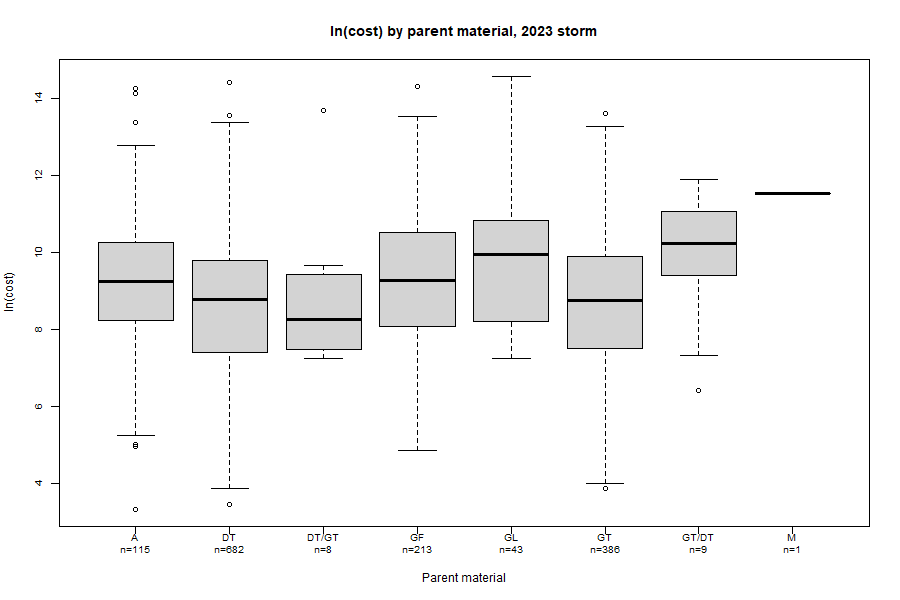
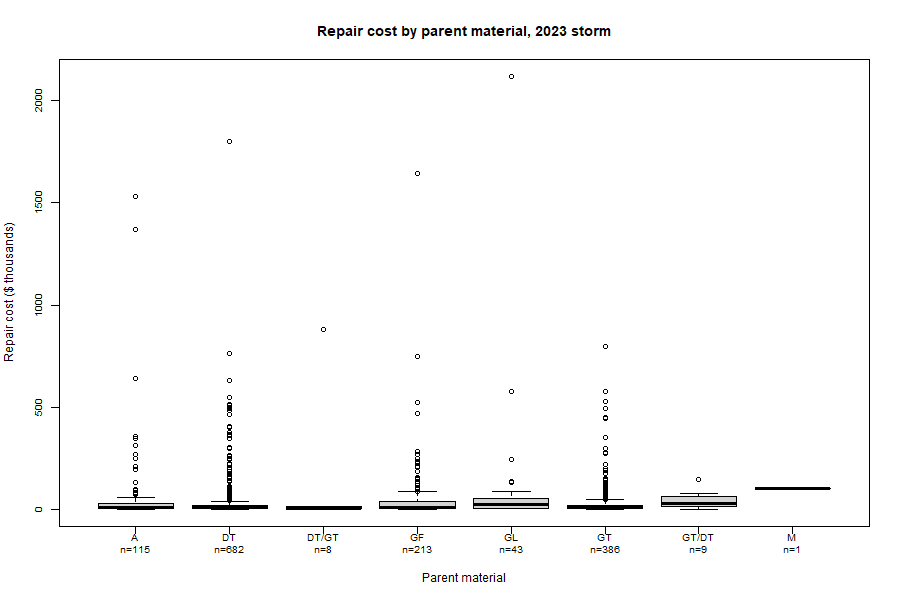
Box plots on repair cost in dollars instead of ln(cost)

diff --git a/CROSSTAB_ANOVA_2026-10-06.md b/CROSSTAB_ANOVA_2026-10-06.md
@@ -49,6 +49,7 @@ CrossTable(roads$vtrans_district, roads$damaged, expected = TRUE, prop.r = TRUE,
 # step 4  the cost side: damaged segments only, cost on the natural-log scale
 dmg <- roads[roads$damaged == 1, ]                              # the damaged segments
 dmg$log_cost <- log(dmg$cost_dedup)                             # ln(cost): the dollar amounts are too skewed for an anova as they are
+dmg$cost_k   <- dmg$cost_dedup / 1000                           # cost in thousands of dollars, for the box plots
 dmg$PARENT          <- factor(dmg$PARENT)                       # re-make the factors so categories with no damaged segments drop out
 dmg$HYDROGROUP      <- factor(dmg$HYDROGROUP)
 dmg$vtrans_district <- factor(dmg$vtrans_district)
@@ -107,8 +108,8 @@ for (i in 1:(length(groups) - 1)) {
 cat("\nmultiple comparisons, bonferroni\n"); print(comparisons, row.names = FALSE)
 
 png(paste0("figures/crosstab_anova_", STORM, "_fig1.png"), width = 900, height = 600)   # figure 1 to a file
-boxplot(log_cost ~ PARENT, data = dmg, xlab = "Parent material", ylab = "ln(cost)",
-        main = paste("ln(cost) by parent material,", STORM, "storm"),
+boxplot(cost_k ~ PARENT, data = dmg, xlab = "Parent material", ylab = "Repair cost ($ thousands)",
+        main = paste("Repair cost by parent material,", STORM, "storm"),
         names = paste0(groups, "\nn=", desc$N), cex.axis = 0.8)   # box = middle half of the values, line = median, whiskers = the rest, circles = outliers
 invisible(dev.off())                                            # close the file without printing "null device"
 
@@ -158,8 +159,8 @@ for (i in 1:(length(groups) - 1)) {
 cat("\nmultiple comparisons, bonferroni\n"); print(comparisons, row.names = FALSE)
 
 png(paste0("figures/crosstab_anova_", STORM, "_fig2.png"), width = 900, height = 600)   # figure 2 to a file
-boxplot(log_cost ~ HYDROGROUP, data = dmg, xlab = "Hydrologic group", ylab = "ln(cost)",
-        main = paste("ln(cost) by hydrologic group,", STORM, "storm"),
+boxplot(cost_k ~ HYDROGROUP, data = dmg, xlab = "Hydrologic group", ylab = "Repair cost ($ thousands)",
+        main = paste("Repair cost by hydrologic group,", STORM, "storm"),
         names = paste0(groups, "\nn=", desc$N), cex.axis = 0.8)
 invisible(dev.off())                                            # close the file without printing "null device"
 
@@ -209,8 +210,8 @@ for (i in 1:(length(groups) - 1)) {
 cat("\nmultiple comparisons, bonferroni\n"); print(comparisons, row.names = FALSE)
 
 png(paste0("figures/crosstab_anova_", STORM, "_fig3.png"), width = 900, height = 600)   # figure 3 to a file
-boxplot(log_cost ~ vtrans_district, data = dmg, xlab = "VTrans district", ylab = "ln(cost)",
-        main = paste("ln(cost) by VTrans district,", STORM, "storm"),
+boxplot(cost_k ~ vtrans_district, data = dmg, xlab = "VTrans district", ylab = "Repair cost ($ thousands)",
+        main = paste("Repair cost by VTrans district,", STORM, "storm"),
         names = paste0(groups, "\nn=", desc$N), cex.axis = 0.8)
 invisible(dev.off())                                            # close the file without printing "null device"
 ```
@@ -632,13 +633,13 @@ multiple comparisons, bonferroni
  8 9          -0.404     0.556 1.000   -2.185    1.377     
 ```
 
-### Figures 2023: ln(cost) box-and-whisker plots
+### Figures 2023: repair cost box-and-whisker plots
 
-![ln(cost) by parent material, 2023](figures/crosstab_anova_2023_fig1.png)
+![Repair cost by parent material, 2023](figures/crosstab_anova_2023_fig1.png)
 
-![ln(cost) by hydrologic group, 2023](figures/crosstab_anova_2023_fig2.png)
+![Repair cost by hydrologic group, 2023](figures/crosstab_anova_2023_fig2.png)
 
-![ln(cost) by VTrans district, 2023](figures/crosstab_anova_2023_fig3.png)
+![Repair cost by VTrans district, 2023](figures/crosstab_anova_2023_fig3.png)
 
 ## Output 2024
 
@@ -1046,10 +1047,10 @@ multiple comparisons, bonferroni
  7 9           0.483     0.277 0.489   -0.249    1.215     
 ```
 
-### Figures 2024: ln(cost) box-and-whisker plots
+### Figures 2024: repair cost box-and-whisker plots
 
-![ln(cost) by parent material, 2024](figures/crosstab_anova_2024_fig1.png)
+![Repair cost by parent material, 2024](figures/crosstab_anova_2024_fig1.png)
 
-![ln(cost) by hydrologic group, 2024](figures/crosstab_anova_2024_fig2.png)
+![Repair cost by hydrologic group, 2024](figures/crosstab_anova_2024_fig2.png)
 
-![ln(cost) by VTrans district, 2024](figures/crosstab_anova_2024_fig3.png)
+![Repair cost by VTrans district, 2024](figures/crosstab_anova_2024_fig3.png)
